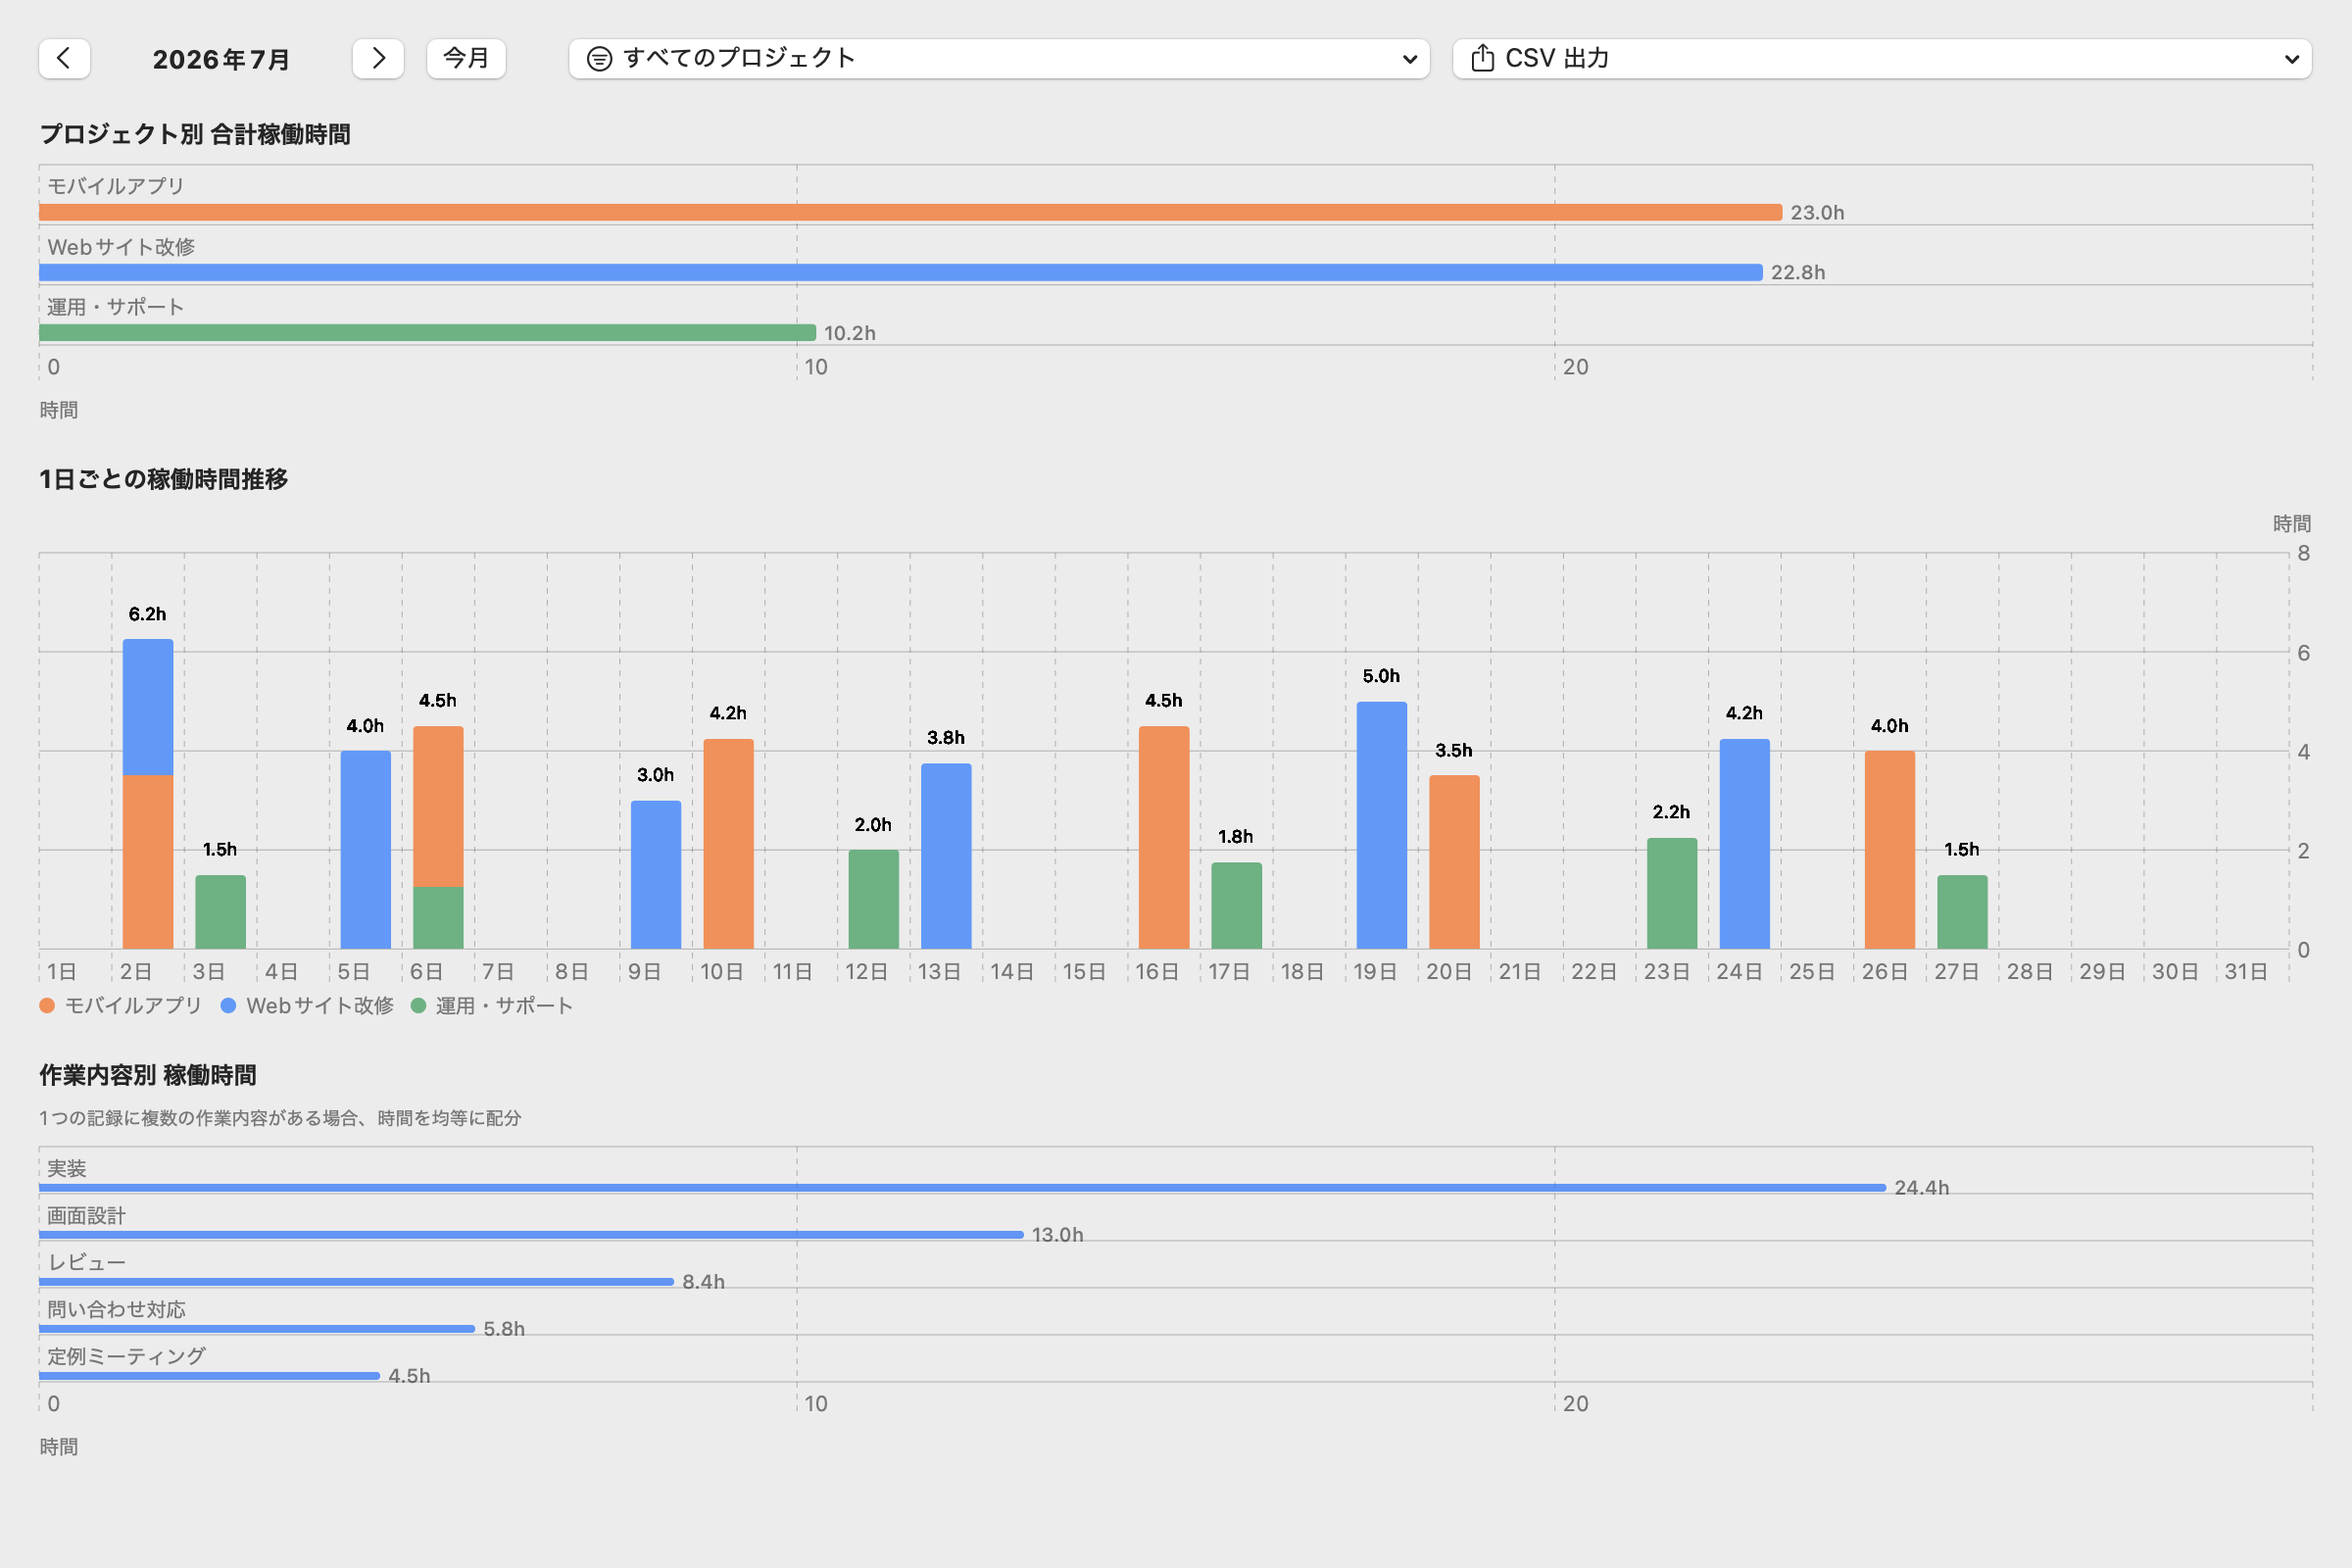
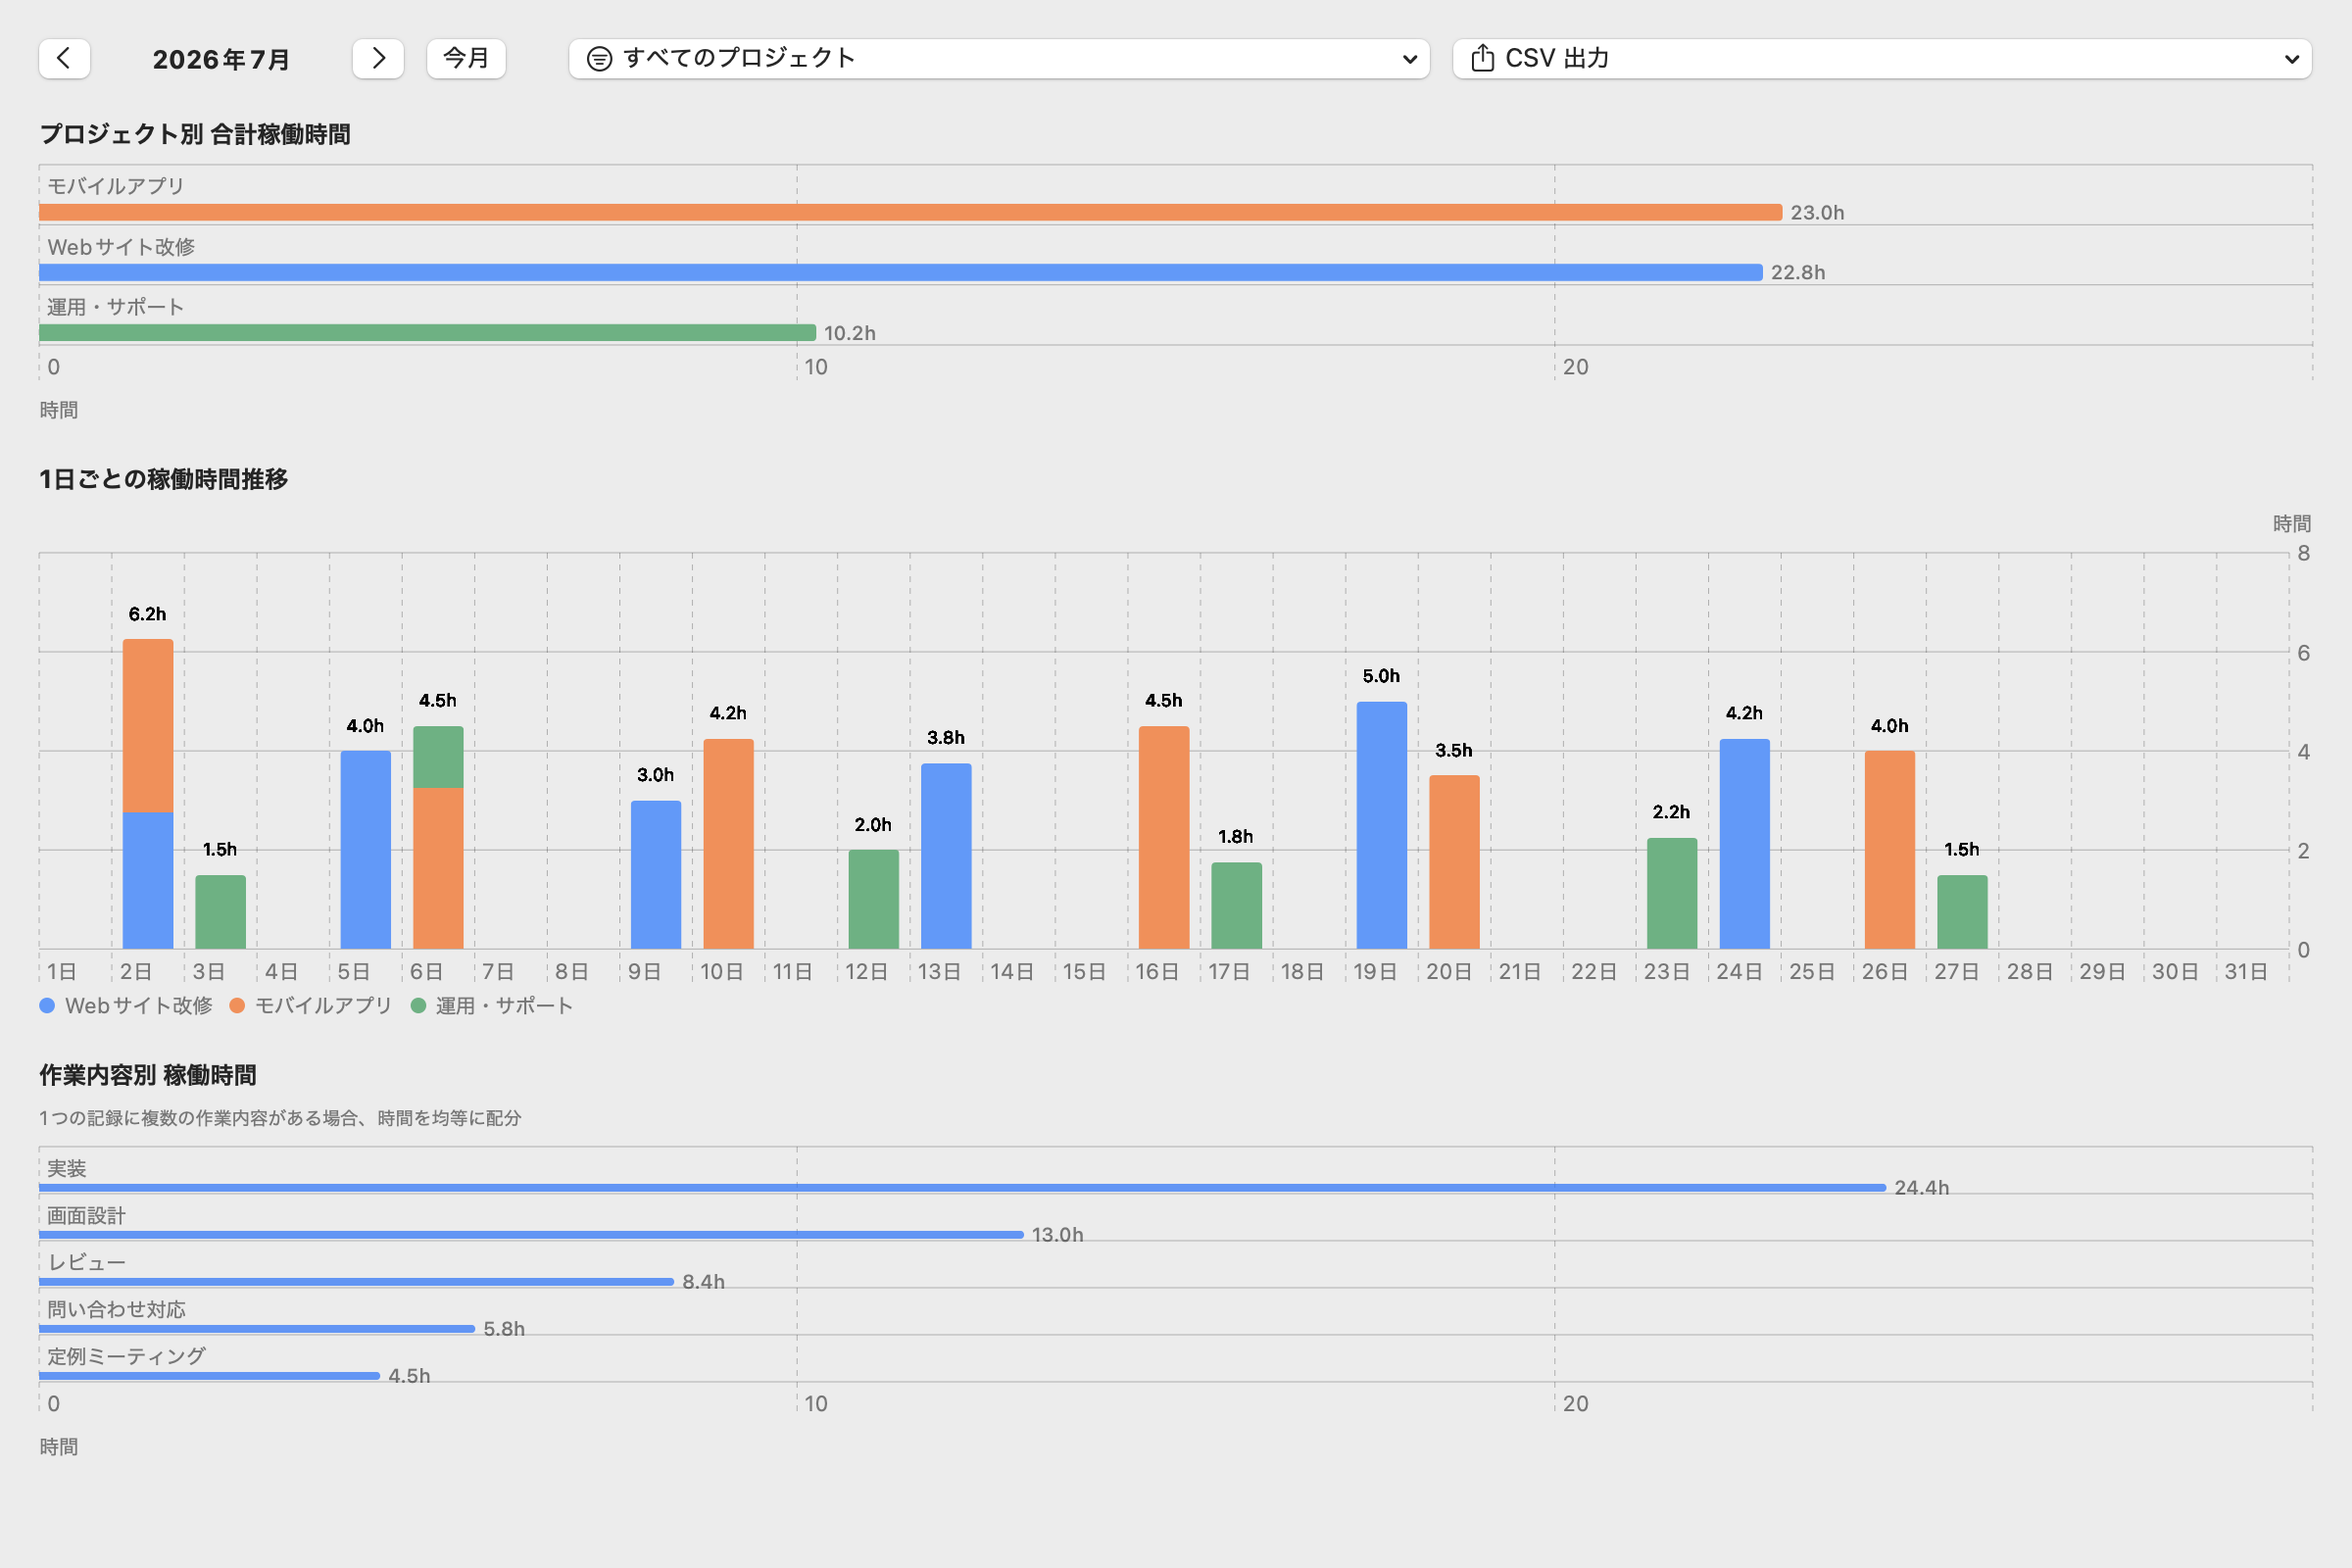
feat: スクリーンショット用サンプルデータを拡充

Changed region(s): [[0.0312, 0.4062, 0.1562, 0.6562], [0.1562, 0.5625, 0.2188, 0.625], [0.1562, 0.4688, 0.2188, 0.5]]

diff --git a/Sources/Support/ScreenshotSampleData.swift b/Sources/Support/ScreenshotSampleData.swift
@@ -13,6 +13,13 @@ enum ScreenshotSampleData {
         let notes: [String]
     }
 
+    struct ActivePeriod {
+        let day: Int
+        let startHour: Int
+        let startMinute: Int
+        let durationMinutes: Int
+    }
+
     static let projects = [
         (name: "Webサイト改修", colorHex: "#4E9BFF"),
         (name: "モバイルアプリ", colorHex: "#FF8A4C"),
@@ -38,6 +45,14 @@ enum ScreenshotSampleData {
         Entry(projectIndex: 0, day: 24, startHour: 9, startMinute: 0, durationMinutes: 255, notes: ["実装"]),
         Entry(projectIndex: 1, day: 26, startHour: 10, startMinute: 15, durationMinutes: 240, notes: ["画面設計", "実装"]),
         Entry(projectIndex: 2, day: 27, startHour: 14, startMinute: 15, durationMinutes: 90, notes: ["定例ミーティング"])
+    ]
+
+    /// 計測し忘れの再現用に、対応する記録を持たないアクティブ時間帯。
+    /// タイムラインで「背景は光っているのに記録が無い」状態を見せるために使う。
+    static let untrackedActivePeriods = [
+        ActivePeriod(day: 11, startHour: 13, startMinute: 30, durationMinutes: 210),
+        ActivePeriod(day: 18, startHour: 9, startMinute: 30, durationMinutes: 150),
+        ActivePeriod(day: 24, startHour: 15, startMinute: 0, durationMinutes: 150)
     ]
 
     static func projects(for language: AppLanguage) -> [(name: String, colorHex: String)] {
@@ -101,11 +116,9 @@ enum ScreenshotSampleData {
 
         let month = sampleMonth(containing: now, calendar: calendar)
         for entry in localizedEntries {
-            guard let startDate = calendar.date(
-                bySettingHour: entry.startHour,
-                minute: entry.startMinute,
-                second: 0,
-                of: calendar.date(byAdding: .day, value: entry.day - 1, to: month) ?? month
+            guard let startDate = date(
+                day: entry.day, hour: entry.startHour, minute: entry.startMinute,
+                in: month, calendar: calendar
             ) else { continue }
             let endDate = startDate.addingTimeInterval(TimeInterval(entry.durationMinutes * 60))
             context.insert(TimeLog(
@@ -114,11 +127,30 @@ enum ScreenshotSampleData {
                 endDate: endDate,
                 notes: entry.notes
             ))
+            // 計測の前後にも PC を使っているのが自然なので、アクティブ時間は記録より広めに取る。
+            context.insert(ActiveSession(
+                startDate: startDate.addingTimeInterval(-15 * 60),
+                endDate: endDate.addingTimeInterval(25 * 60)
+            ))
+        }
+        for period in untrackedActivePeriods {
+            guard let startDate = date(
+                day: period.day, hour: period.startHour, minute: period.startMinute,
+                in: month, calendar: calendar
+            ) else { continue }
+            let endDate = startDate.addingTimeInterval(TimeInterval(period.durationMinutes * 60))
             context.insert(ActiveSession(startDate: startDate, endDate: endDate))
         }
 
         try context.save()
         try WorkNoteCatalog.bootstrap(in: context)
+    }
+
+    private static func date(
+        day: Int, hour: Int, minute: Int, in month: Date, calendar: Calendar
+    ) -> Date? {
+        guard let dayDate = calendar.date(byAdding: .day, value: day - 1, to: month) else { return nil }
+        return calendar.date(bySettingHour: hour, minute: minute, second: 0, of: dayDate)
     }
 
     private static func removeExistingData(from context: ModelContext) throws {

diff --git a/Tests/ReadmeScreenshotTests.swift b/Tests/ReadmeScreenshotTests.swift
@@ -18,9 +18,11 @@ struct ReadmeScreenshotTests {
         let logs = try context.fetch(FetchDescriptor<TimeLog>())
         let sessions = try context.fetch(FetchDescriptor<ActiveSession>())
 
+        let expectedSessions = ScreenshotSampleData.entries.count
+            + ScreenshotSampleData.untrackedActivePeriods.count
         #expect(projects.count == ScreenshotSampleData.projects.count)
         #expect(logs.count == ScreenshotSampleData.entries.count)
-        #expect(sessions.count == ScreenshotSampleData.entries.count)
+        #expect(sessions.count == expectedSessions)
         #expect(logs.allSatisfy { $0.endDate != nil })
         #expect(logs.allSatisfy { TestSupport.utcCalendar.component(.month, from: $0.startDate) == 7 })
     }
